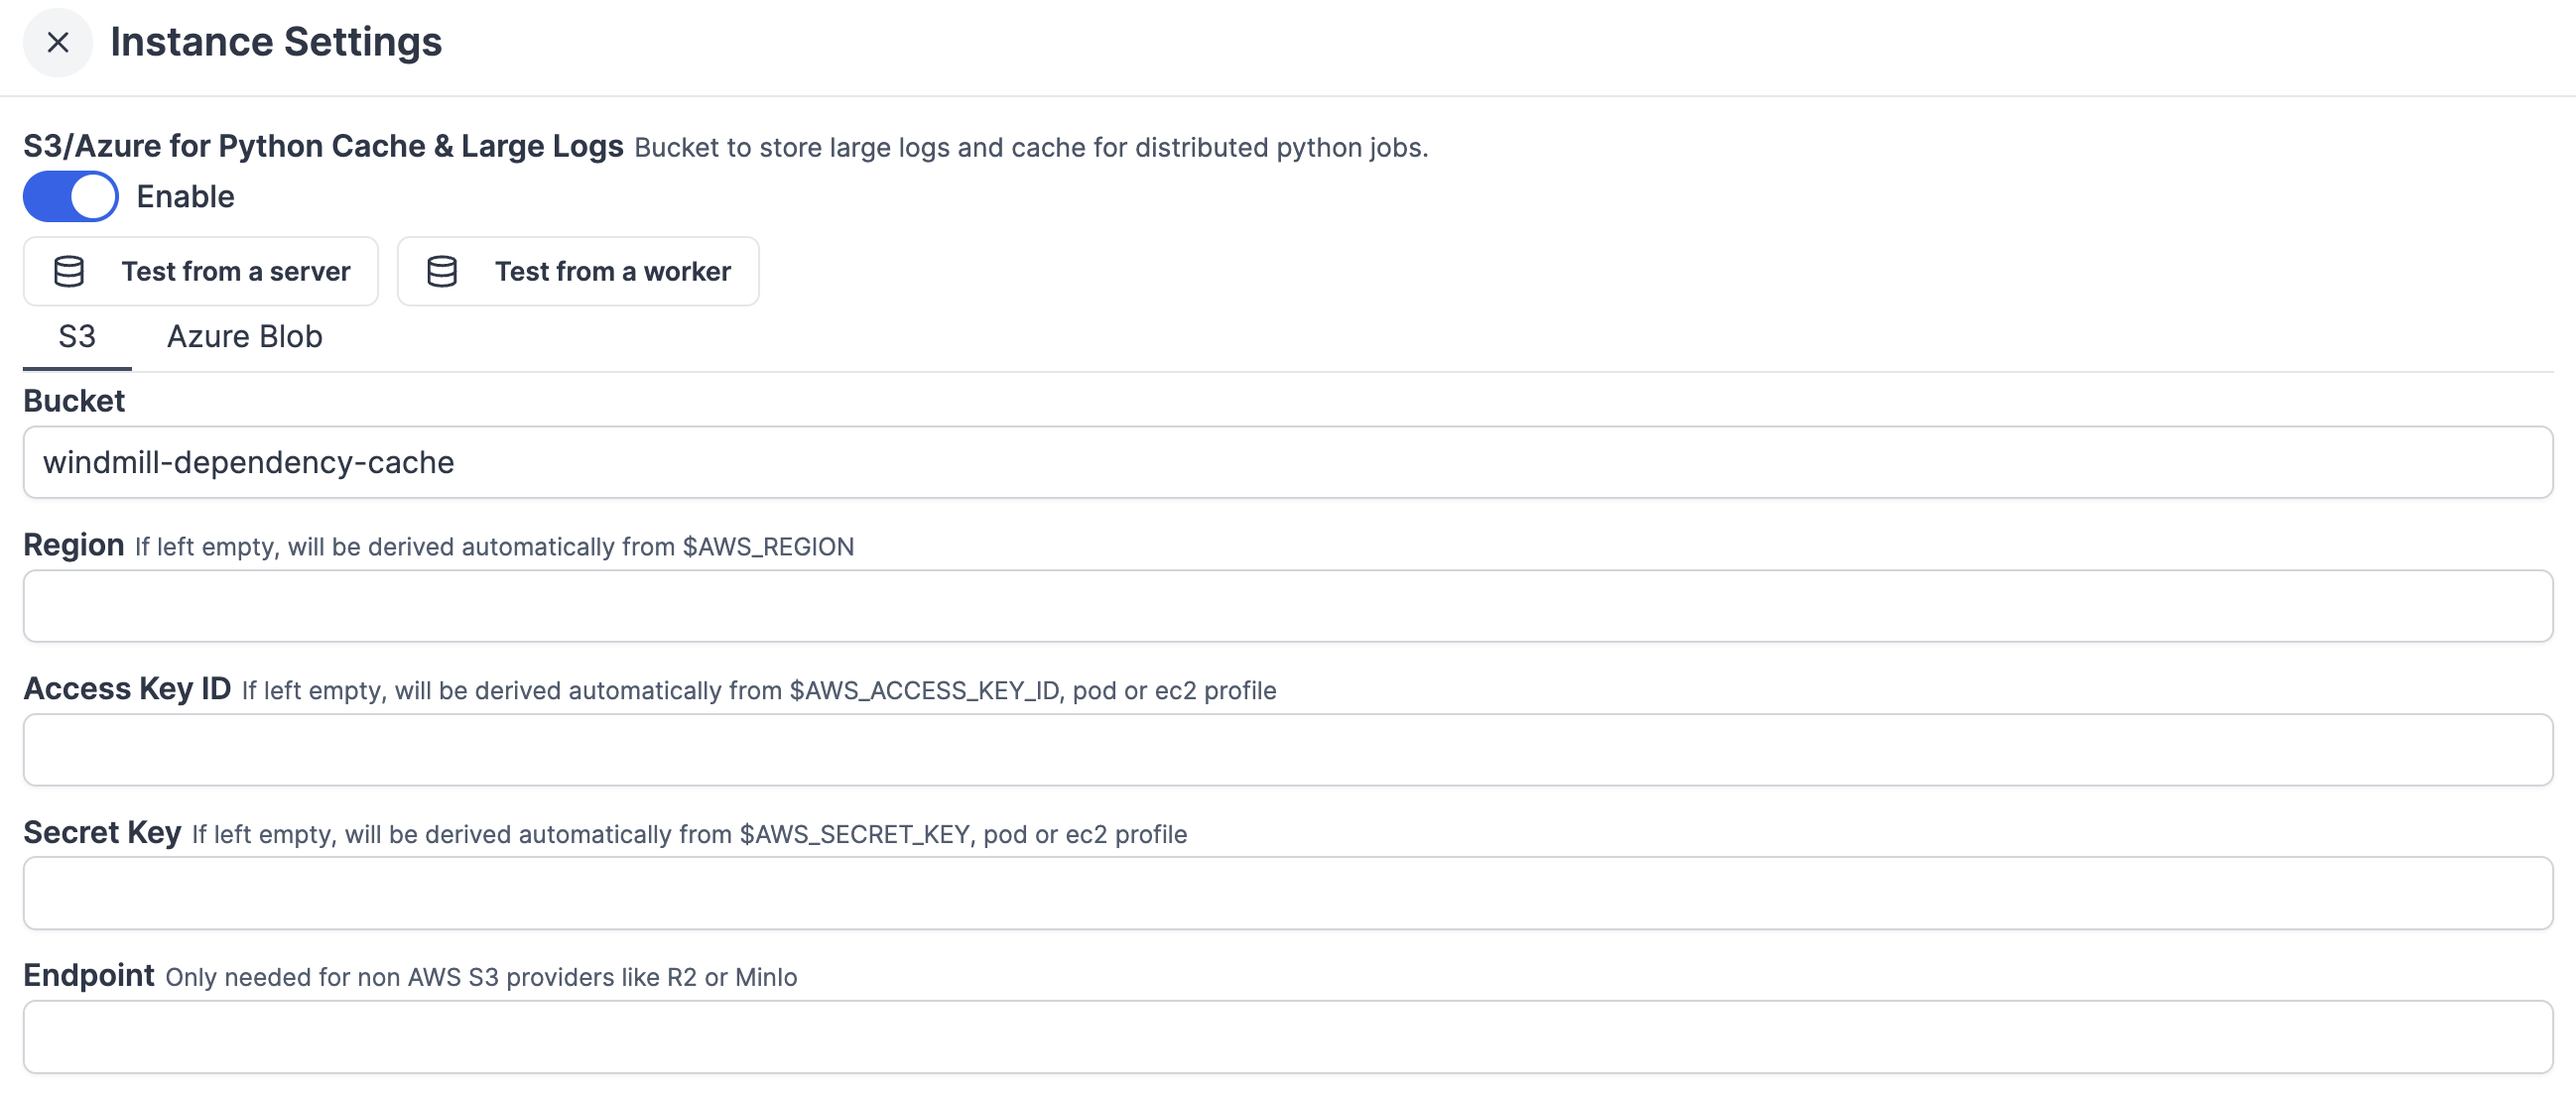
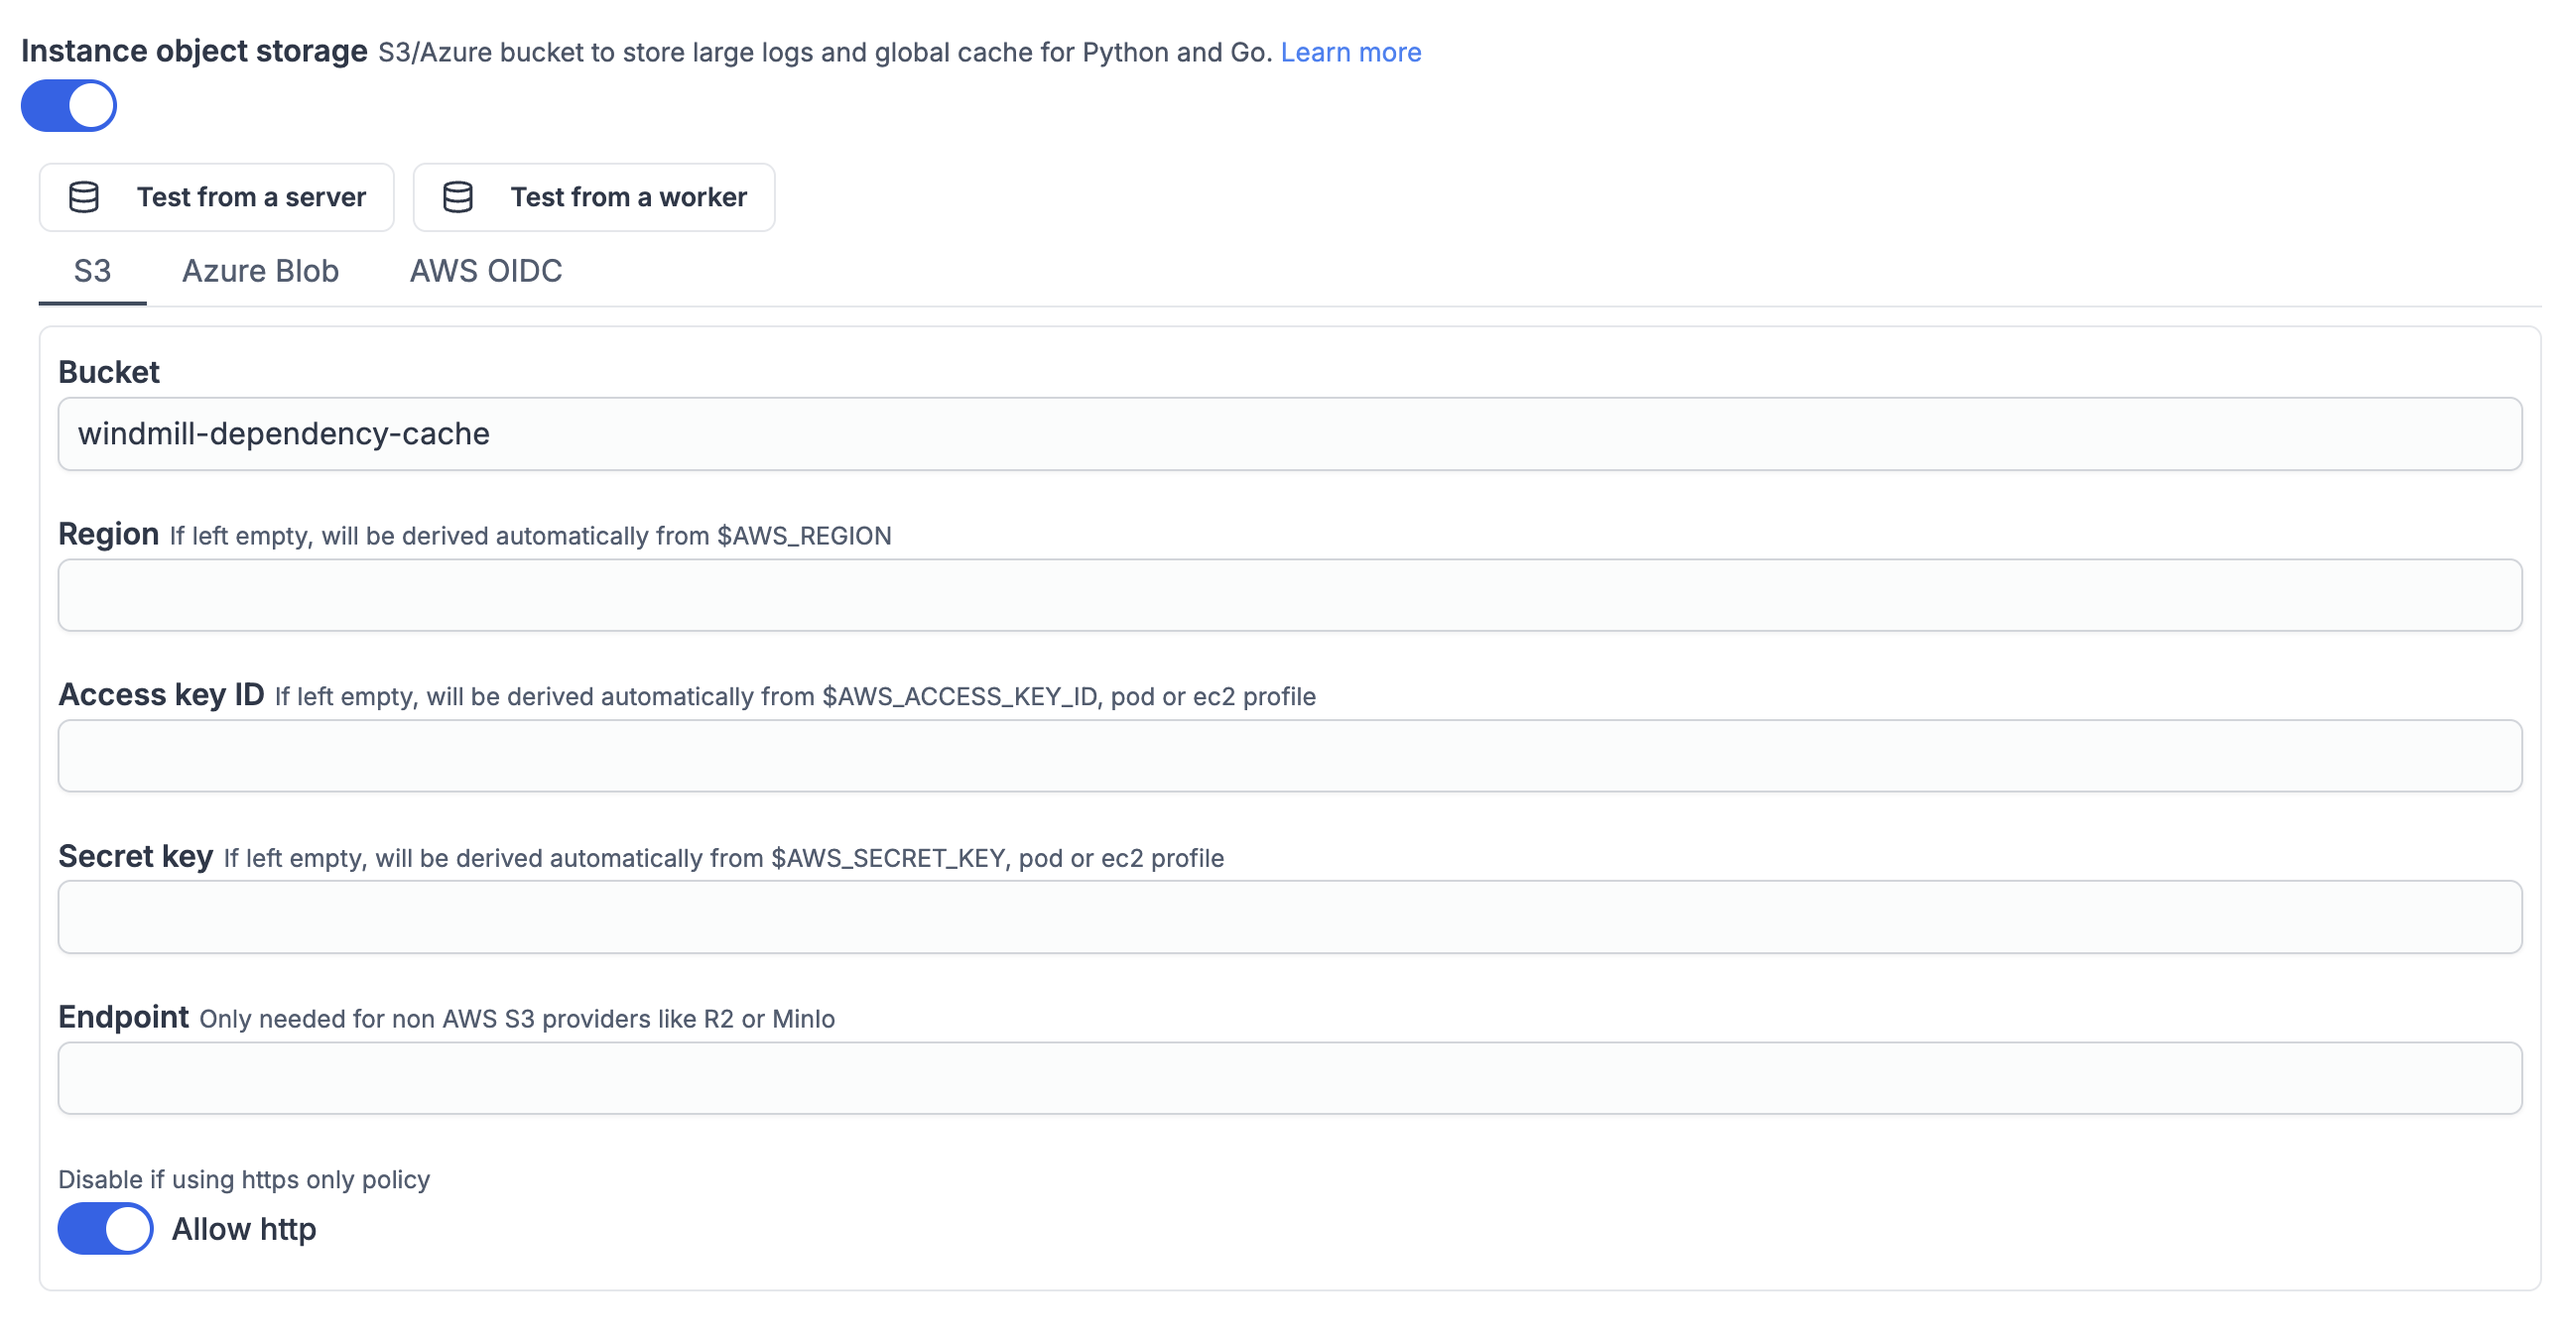
Doc & changelog catchup

diff --git a/src/landing/Footer.jsx b/src/landing/Footer.jsx
@@ -143,7 +143,7 @@ export default function Footer() {
 					</div>
 				</div>
 				<p className="text-left text-xs leading-4 tracking-tight text-gray-800 dark:text-gray-200 text-opacity-60 hover:text-opacity-100">
-					&copy; 2025 Windmill Labs, Inc. All rights reserved. 1111B S Governors Ave, Dover, DE
+					&copy; 2025 Windmill Labs, Inc. All rights reserved. 1111B S Governors Ave STE 6013, Dover, DE
 					19904, USA
 				</p>
 			</div>

diff --git a/changelog/2025-05-29-pep-723/index.md b/changelog/2025-05-29-pep-723/index.md
@@ -2,7 +2,7 @@
 slug: pep-723
 version: v1.493.0
 title: Python Inline Script Metadata [PEP-723]
-tags: ['scripts', 'python']
+tags: ['Script editor', 'Python']
 description: Windmill now supports **PEP-723** inline script metadata, providing a standardized way to specify script dependencies and Python version requirements directly within your script. This implements the official Python packaging standard for inline script metadata. Besides, release brings refactor to Python runtime selection logic giving developer more precise control over Python version requirements than the simple annotations
 features:
   - Specify dependencies with syntax from PEP-723

diff --git a/changelog/2025-06-06-generate-http-route-from-openapi-spec/index.md b/changelog/2025-06-06-generate-http-route-from-openapi-spec/index.md
@@ -2,7 +2,7 @@
 slug: openapi-http-route-generation
 version: v1.496.0
 title: Generate HTTP Routes from OpenAPI Specification
-tags: ['http', 'api', 'triggers', 'openapi']
+tags: ['HTTP', 'API', 'Triggers', 'OpenAPI']
 description: Windmill now supports generating HTTP routes directly from an OpenAPI specification. This allows developers to streamline the setup of HTTP triggers by importing spec files (JSON/YAML), either via URL, file upload, or raw text, and auto-generating the necessary route configurations.
 features:
   - Automatically generate HTTP triggers from OpenAPI specs.

diff --git a/changelog/2025-06-05-ssh-repl-for-worker-host/index.md b/changelog/2025-06-05-ssh-repl-for-worker-host/index.md
@@ -2,7 +2,7 @@
 slug: ssh-repl-for-worker-host
 version: v1.495.0
 title: SSH REPL to access the worker host
-tags: ['ssh', 'repl', 'debugging', 'bash', 'workers']
+tags: ['SSH', 'REPL', 'Debugging', 'Bash', 'Workers']
 description: Windmill now includes an interactive SSH-like REPL console for each worker, allowing you to run bash commands on the machine where the worker is hosted. This enables seamless on-the-fly debugging, filesystem exploration, and command execution directly from the UI.
 features:
   - Open a bash REPL session per worker.

diff --git a/changelog/2025-05-27-aws-oidc-support-instance-s3-storage/index.md b/changelog/2025-05-27-aws-oidc-support-instance-s3-storage/index.md
@@ -1,0 +1,11 @@
+---
+slug: aws-oidc-support-instance-s3-storage
+version: v1.493.0
+title: AWS OIDC Support for Instance S3 Storage
+tags: ['AWS', 'OIDC', 'S3', 'Storage', 'Enterprise']
+description: Windmill now supports using AWS OIDC for instance object storage configuration.
+features:
+  - Added AWS OIDC support for instance object storage
+image: ./aws-oidc-s3-storage.png
+docs: /docs/advanced/instance_settings#instance-object-storage
+---
